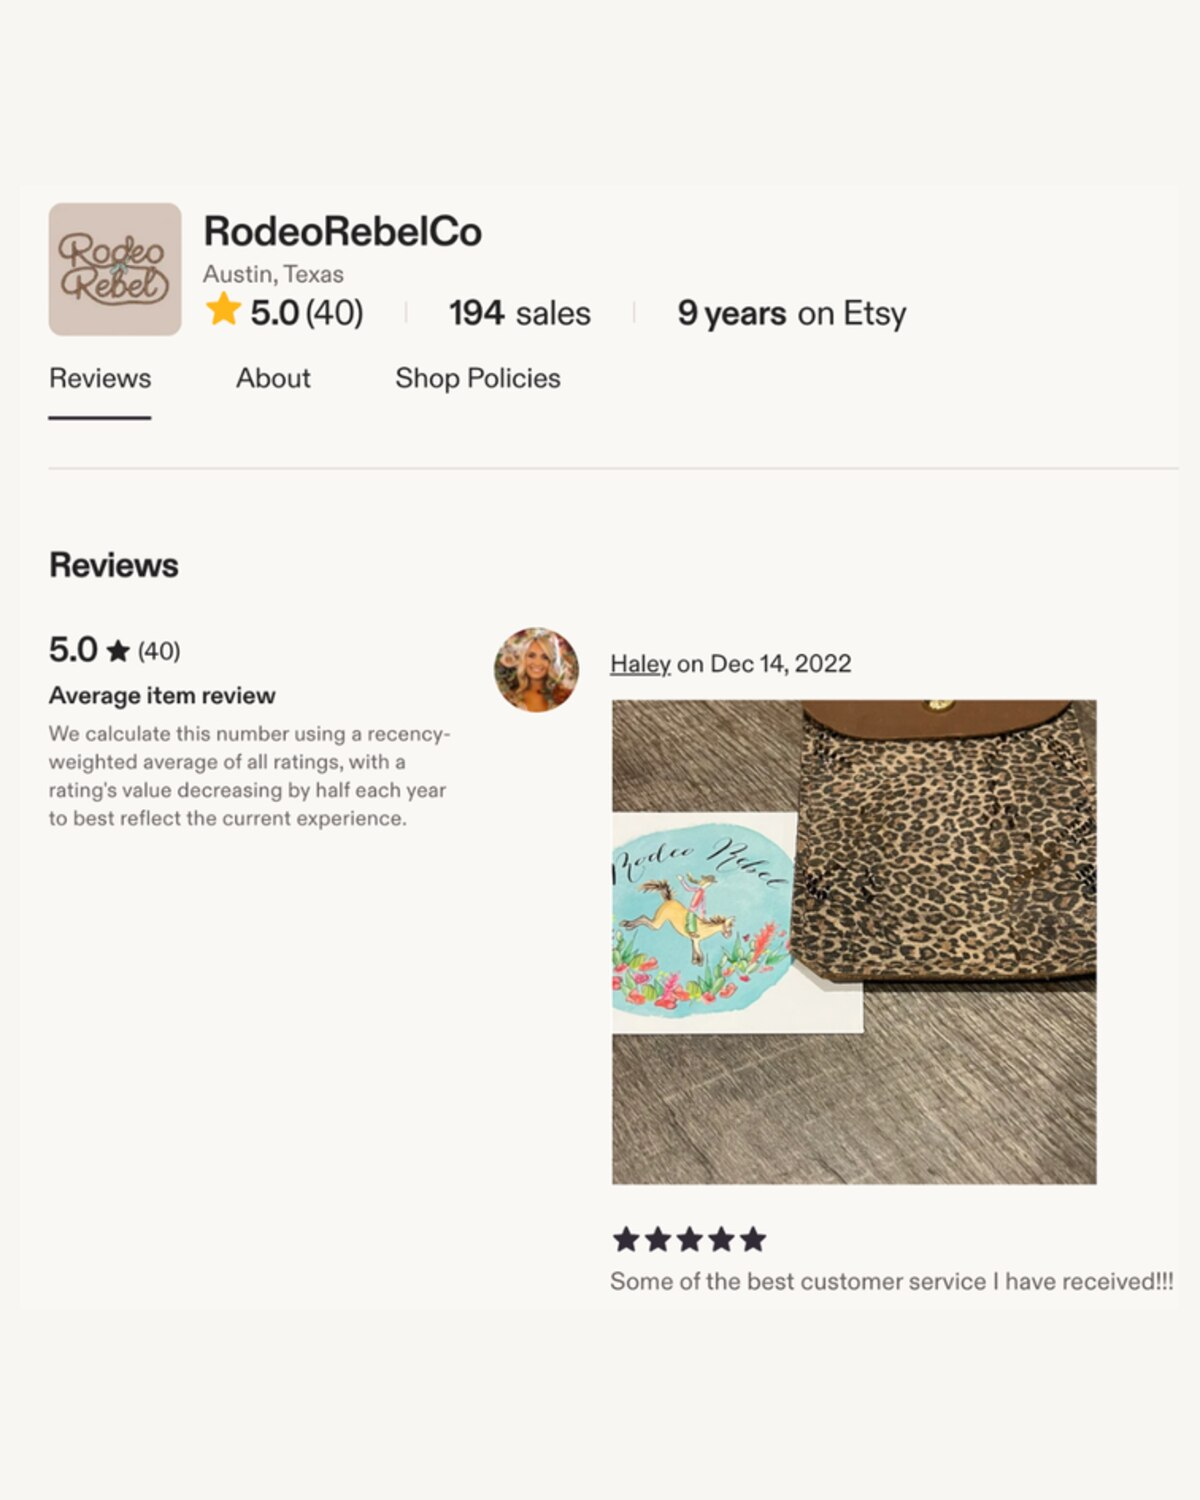
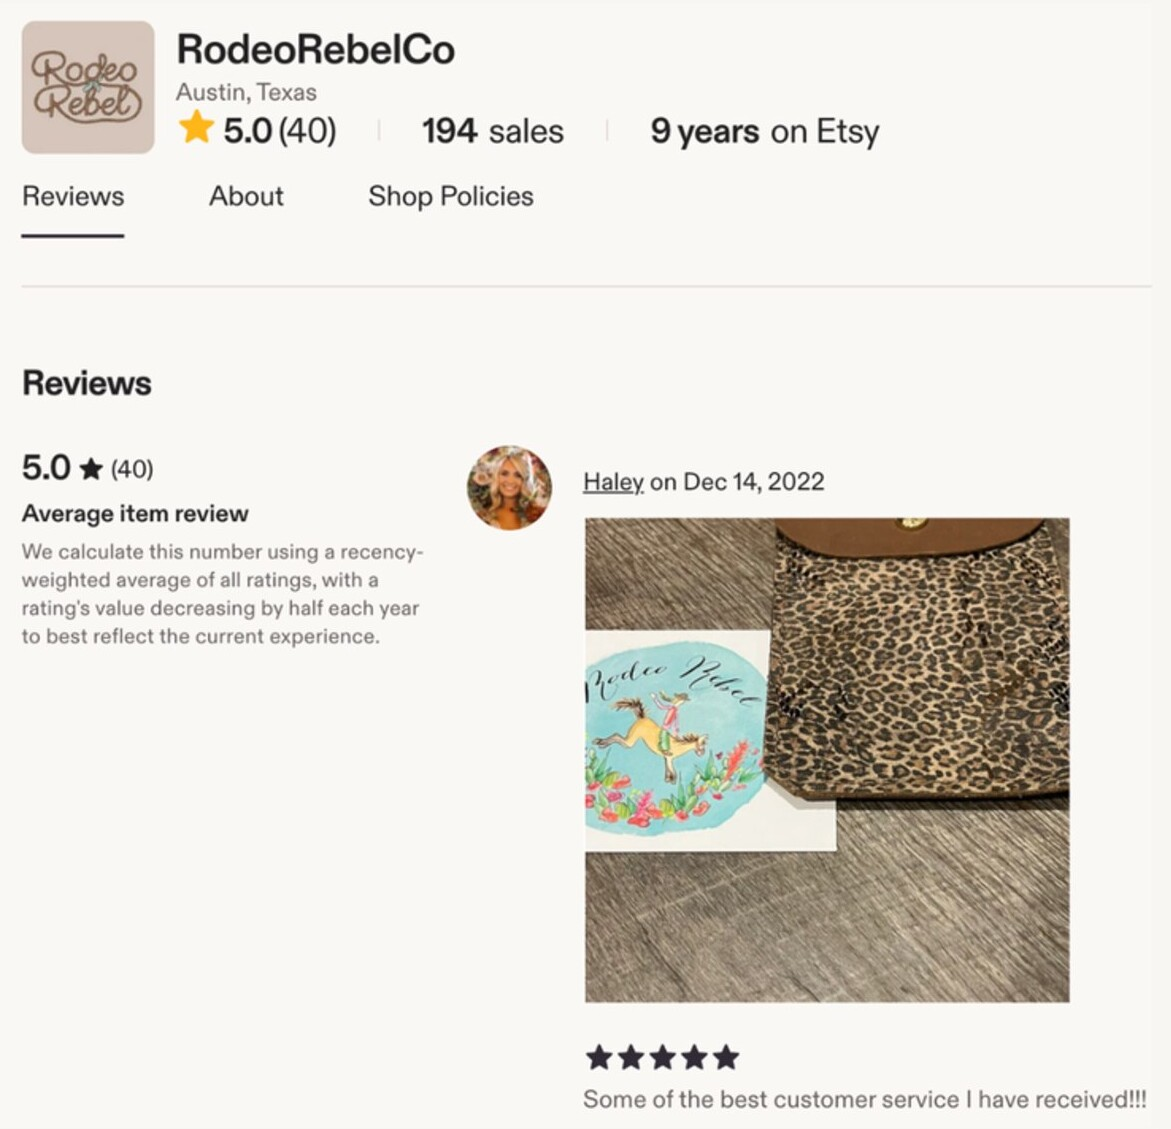
Crop excess whitespace from Etsy review screenshot
The RodeoRebelCo Etsy screenshot in the E-Commerce & Branding project
had a large off-white margin around the actual content, making the
review text and stats small and hard to read at the card's display
size. Cropped tightly around the content (auto-detected bounding box,
plus a small consistent margin) and updated the image's width/height
attributes to match the new 1171x1129 dimensions.

Verified: renders well alongside its paired Shopify screenshot, no
console/network errors, 0 Cumulative Layout Shift, no mobile overflow.

Claude-Session: https://claude.ai/code/session_01QvpiMFZT9szqy6VGVVphfK

diff --git a/work.html b/work.html
@@ -71,7 +71,7 @@
       </div>
       <div class="project-media project-media--pair">
         <img src="assets/img/ecommerce-site.jpg" alt="Rodeo Rebel Shopify website homepage" width="1200" height="1552" loading="lazy">
-        <img src="assets/img/ecommerce-etsy.jpg" alt="RodeoRebelCo Etsy shop page showing 5.0 star rating and reviews" width="1200" height="1500" loading="lazy">
+        <img src="assets/img/ecommerce-etsy.jpg" alt="RodeoRebelCo Etsy shop page showing 5.0 star rating and reviews" width="1171" height="1129" loading="lazy">
       </div>
     </div>
 
